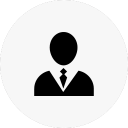
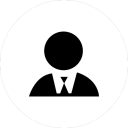
changing skills png files

Changed region(s): [[0.2188, 0.2188, 0.7812, 0.7812]]

diff --git a/home.html b/home.html
@@ -176,7 +176,7 @@
       <figure>
         <div class="feature-icon slide-up">
           
-          <img src="assets/images/office.png" style="height:9em;margin:0px;width: auto;">
+          <img src="assets/images/converse.png" style="height:9em;margin:0px;width: auto;">
         </div>
         <h3>Mentorship</h3>
         <p class="feature-description">
